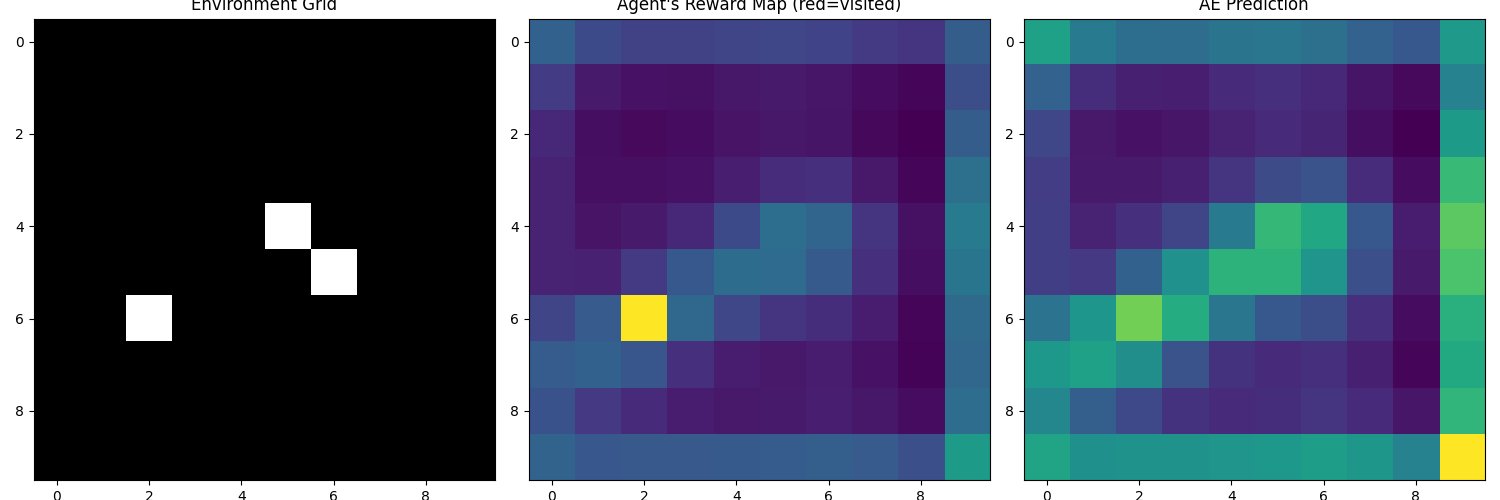
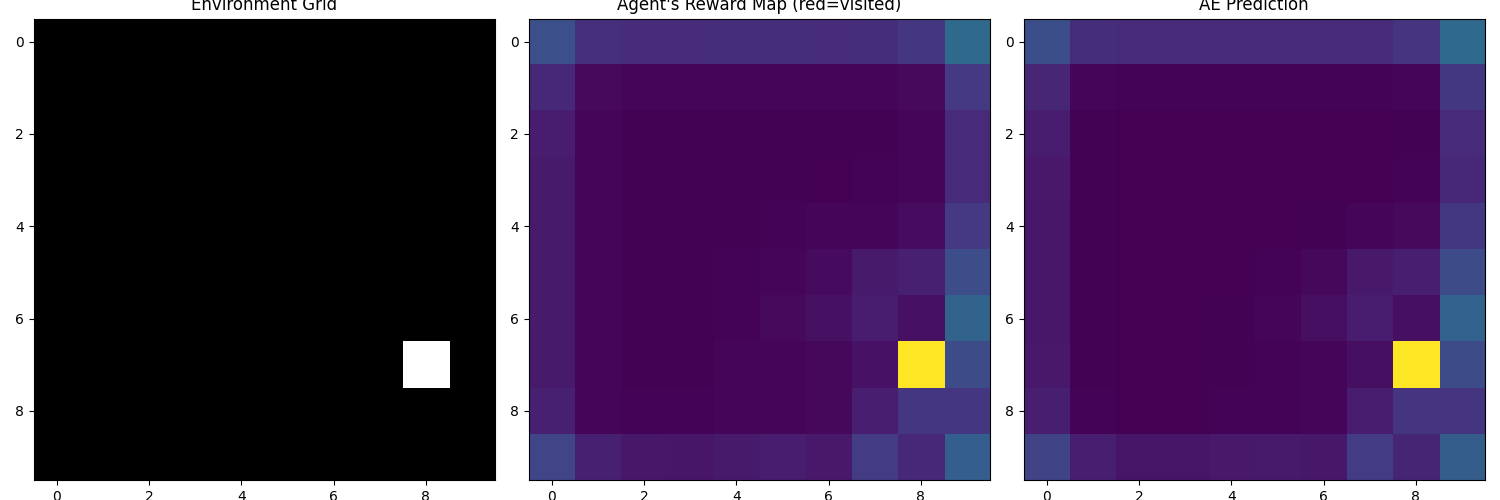
Test on home PC
Checking if the new implementation of the dot product between the SR and the Reward maps to create the WVF works

diff --git a/2D/main.py b/2D/main.py
@@ -322,17 +322,40 @@ def train_successor_agent(agent, env, episodes=151, ae_model=None, max_steps=100
             
             # dot product the SR with these reward Maps
             # 1. SR: M_flat[s, s'] = expected future occupancy of s' from s
-            M_flat = np.mean(agent.M, axis=0)  # shape: (100, 100)
+            M_flat = np.mean(agent.M, axis=0)  # shape: (100, 100), average accross actions
 
-            # 2. Reward maps: reward at every position from perspective of each state
-            # reward_maps[idx] = 10x10 reward layout for state idx
-            reward_maps_flat = agent.reward_maps.reshape(100, 100)  # flatten spatial maps
+            # Attempt 1
+            # # 2. Reward maps: reward at every position from perspective of each state
+            # # reward_maps[idx] = 10x10 reward layout for state idx
+            # reward_maps_flat = agent.reward_maps.reshape(100, 100)  # flatten spatial maps
 
-            # 3. Dot product: expected value at each state, from each other state
-            value_flat = np.matmul(M_flat, reward_maps_flat)  # shape: (100, 100)
+            # # 3. Dot product: expected value at each state, from each other state
+            # value_flat = np.matmul(M_flat, reward_maps_flat)  # shape: (100, 100)
 
-            # 4. Reshape to match environment layout
-            agent.wvf = value_flat.reshape(100, 10, 10)
+            # # 4. Reshape to match environment layout
+            # agent.wvf = value_flat.reshape(100, 10, 10)
+            
+            # Attempt 2
+            # Result: wvf: (state_size, grid_size, grid_size)
+            # Output shape: (action_size, state_size, grid_size, grid_size)
+            # agent.wvf = agent.wvf.mean(axis=0) 
+            # # agent.wvf = np.einsum('ij,jkl->ikl', agent.M, agent.reward_maps)
+            # agent.wvf = np.einsum('aij,jkl->aikl', agent.M, agent.reward_maps)
+
+            # Attempt 3
+            # Compute the value function for each reward map
+            # Compute the value function for each reward map
+            for i in range(agent.state_size):  # Loop through reward maps
+                R = agent.reward_maps[i, :, :]  # (10, 10) reward map
+                R_flat = R.flatten()  # (100,) vector
+
+                # Dot product with SR to get value function over all states
+                V = np.dot(M_flat, R_flat)  # V is shape (100,)
+                
+                # Reshape to (10, 10) and store
+                agent.wvf[i] = V.reshape(agent.grid_size, agent.grid_size)
+
+
 
 
             # Reward found, next episode
